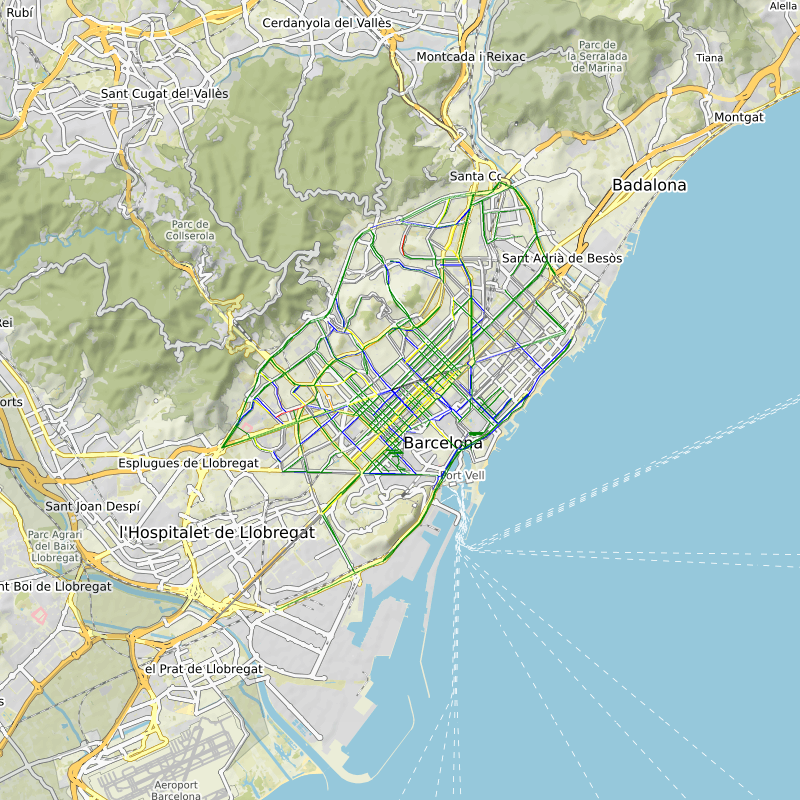
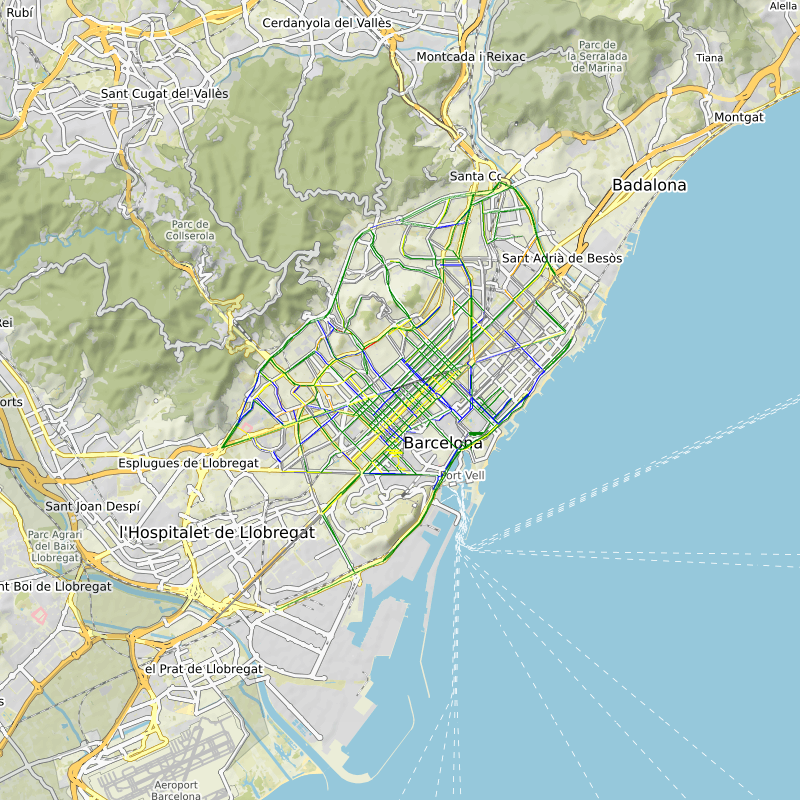
funciona

diff --git a/i-go1.py b/i-go1.py
@@ -342,7 +342,7 @@ def test():
     i_graph= bo_build_i_graph(di_graph, highways,congestions, ARBITRARY, INFINIT)
 
     # get 'intelligent path' between two addresses and plot it into a PNG image
-    ipath = get_shortest_path_with_itime(i_graph, "Campus Nord", "Sagrada Família")
+    ipath = get_shortest_path_with_itime(i_graph, "Taquígraf Martí, 10", "Campus Nord UPC")
     plot_path(i_graph, ipath, SIZE)
 
 #testing
